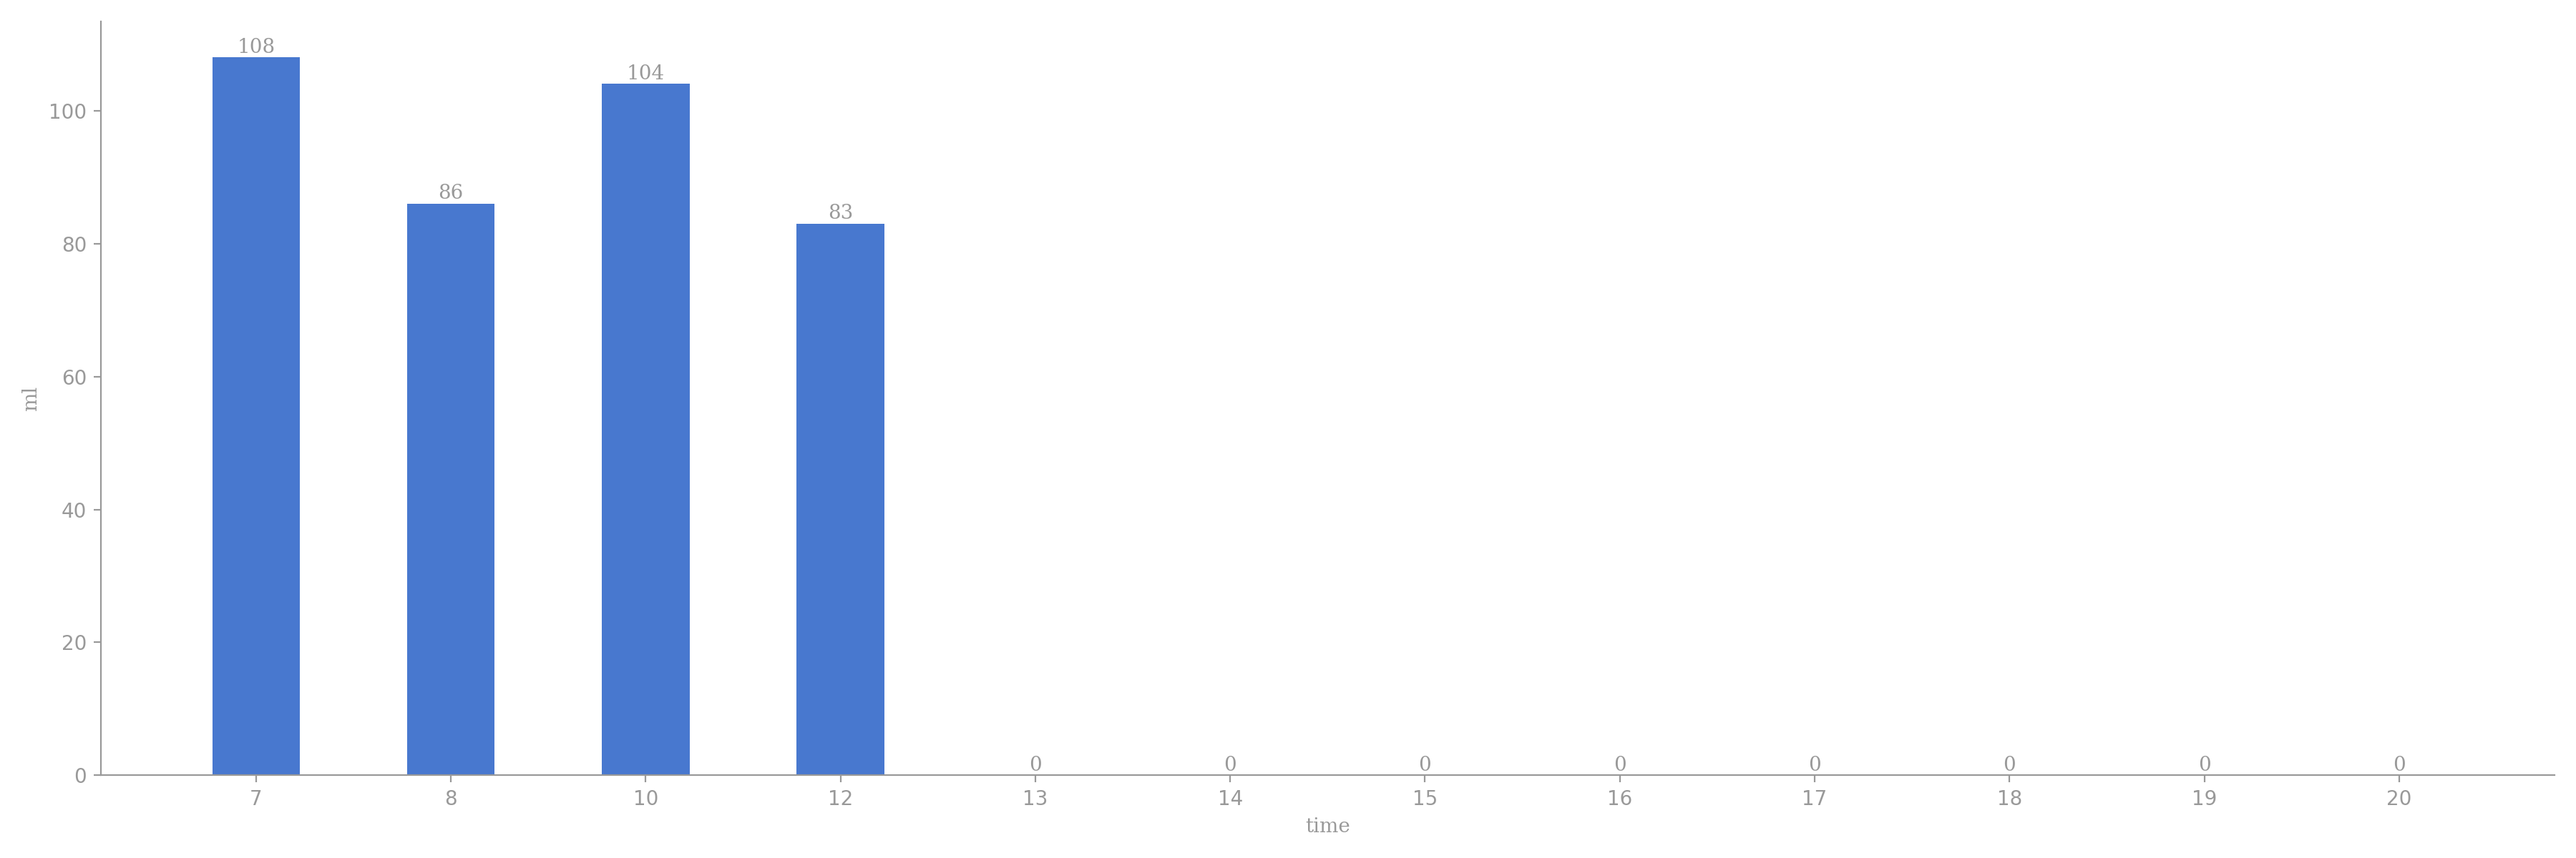
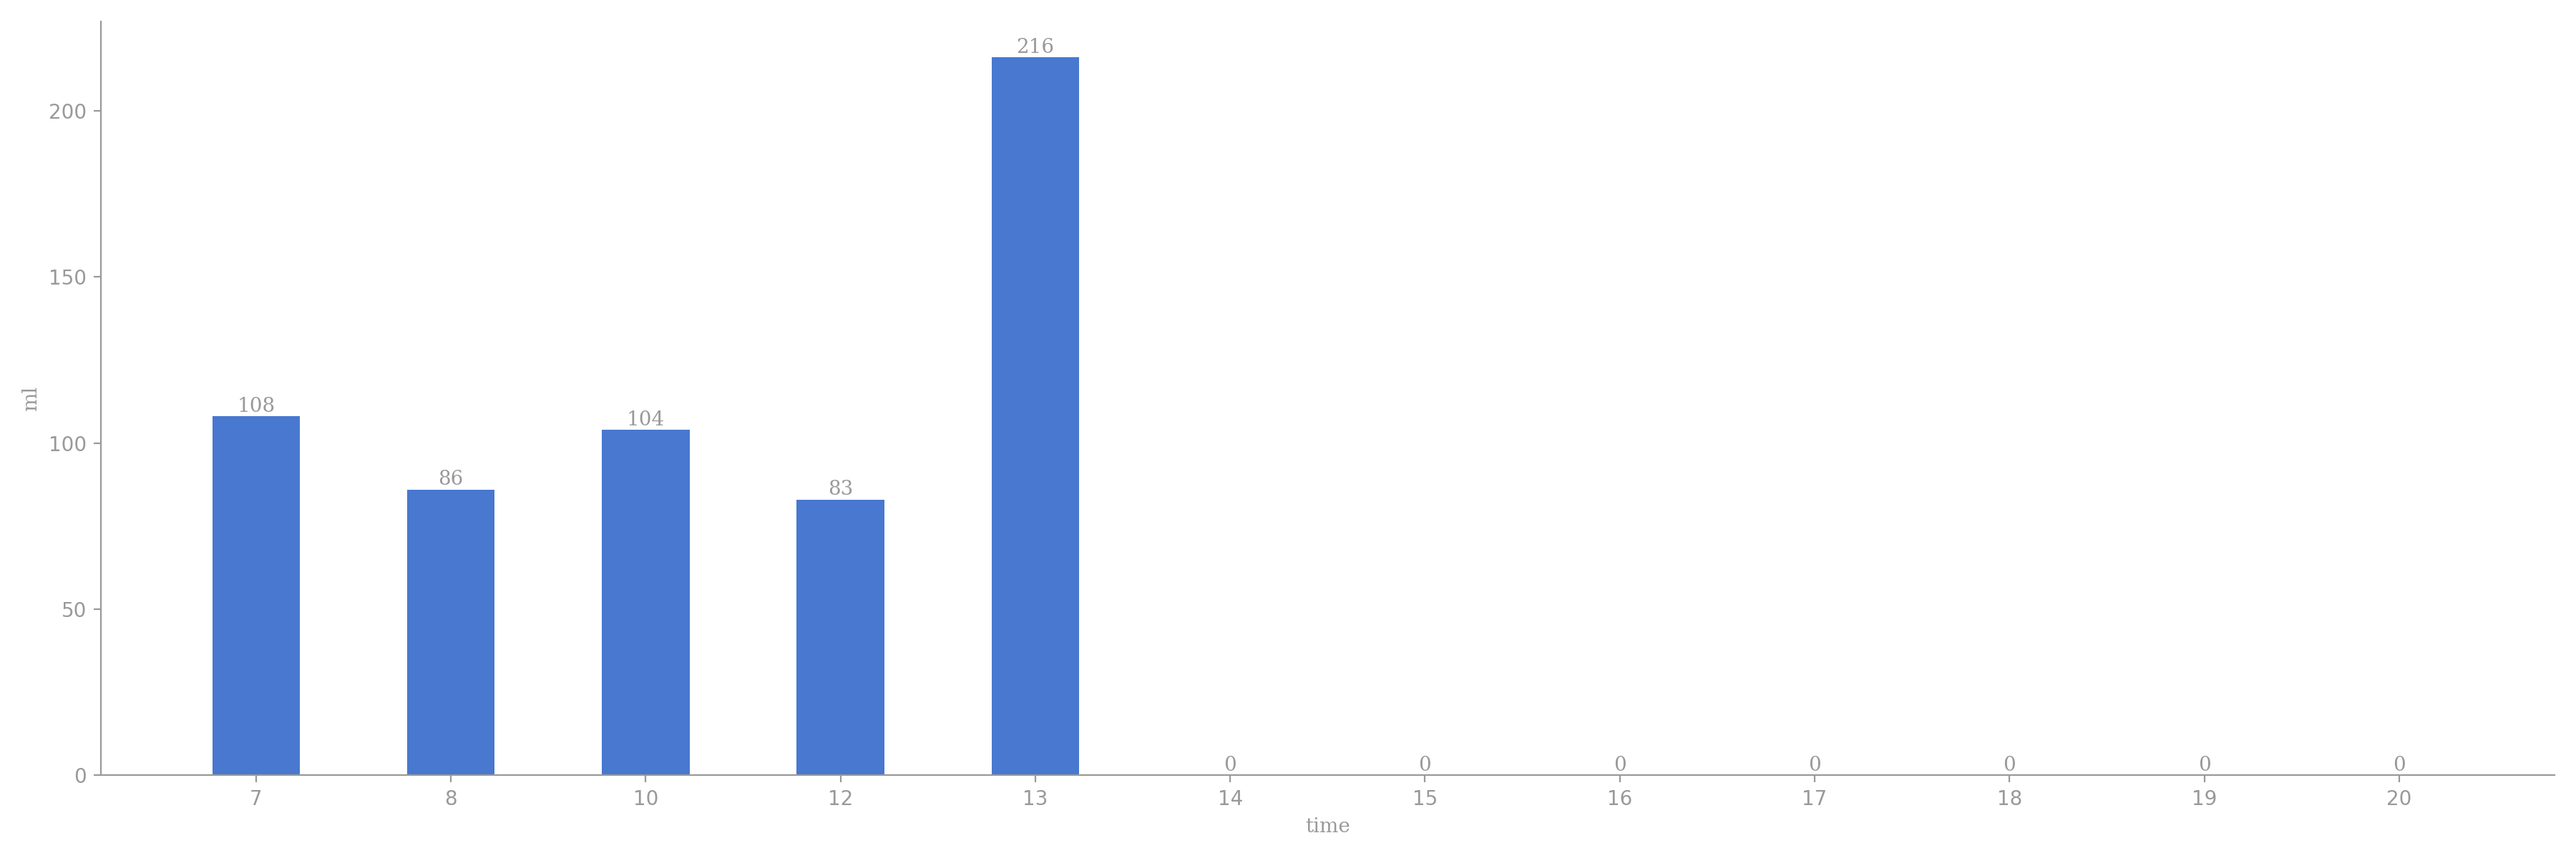
crontab auto git

diff --git a/README.md b/README.md
@@ -5,12 +5,12 @@
 
 | 今日总饮水量 | 每小时平均饮水量 |
 | :----: | :----: |
-| 381 | 95 |
+| 597 | 119 |
 </div>
 
-| 日期 | 07:48:16 | 08:10:26 | 10:12:22 | 12:47:36 |
-| :----: | :----: | :----: | :----: | :----: |
-| 2025-12-14 | 108 | 86 | 104 | 83 |
+| 日期 | 07:48:16 | 08:10:26 | 10:12:22 | 12:47:36 | 13:10:52 |
+| :----: | :----: | :----: | :----: | :----: | :----: |
+| 2025-12-14 | 108 | 86 | 104 | 83 | 216 |
 
 # 近30日饮水数据
 
